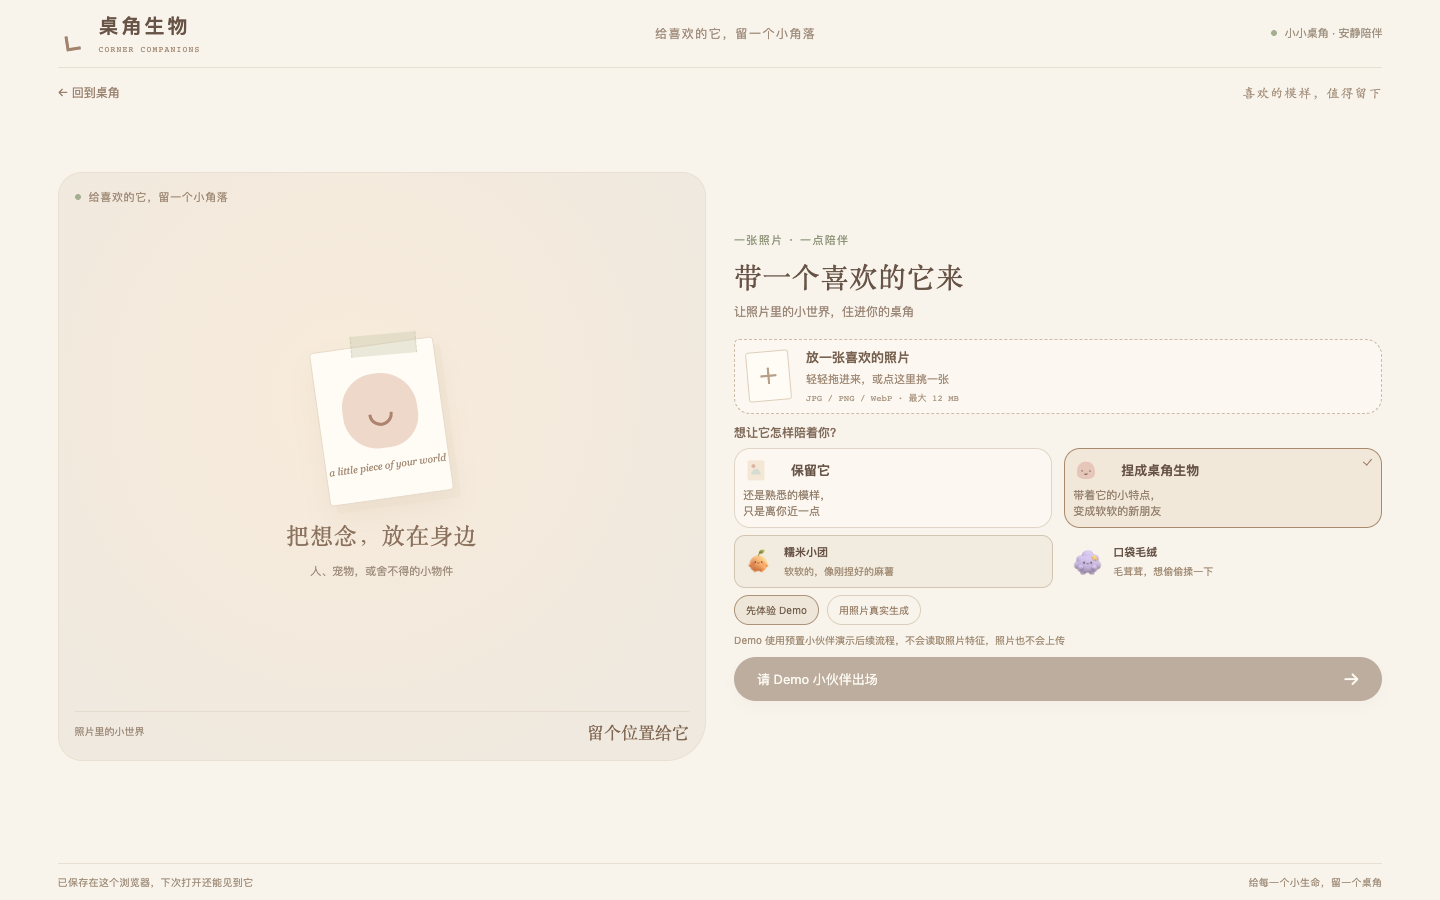
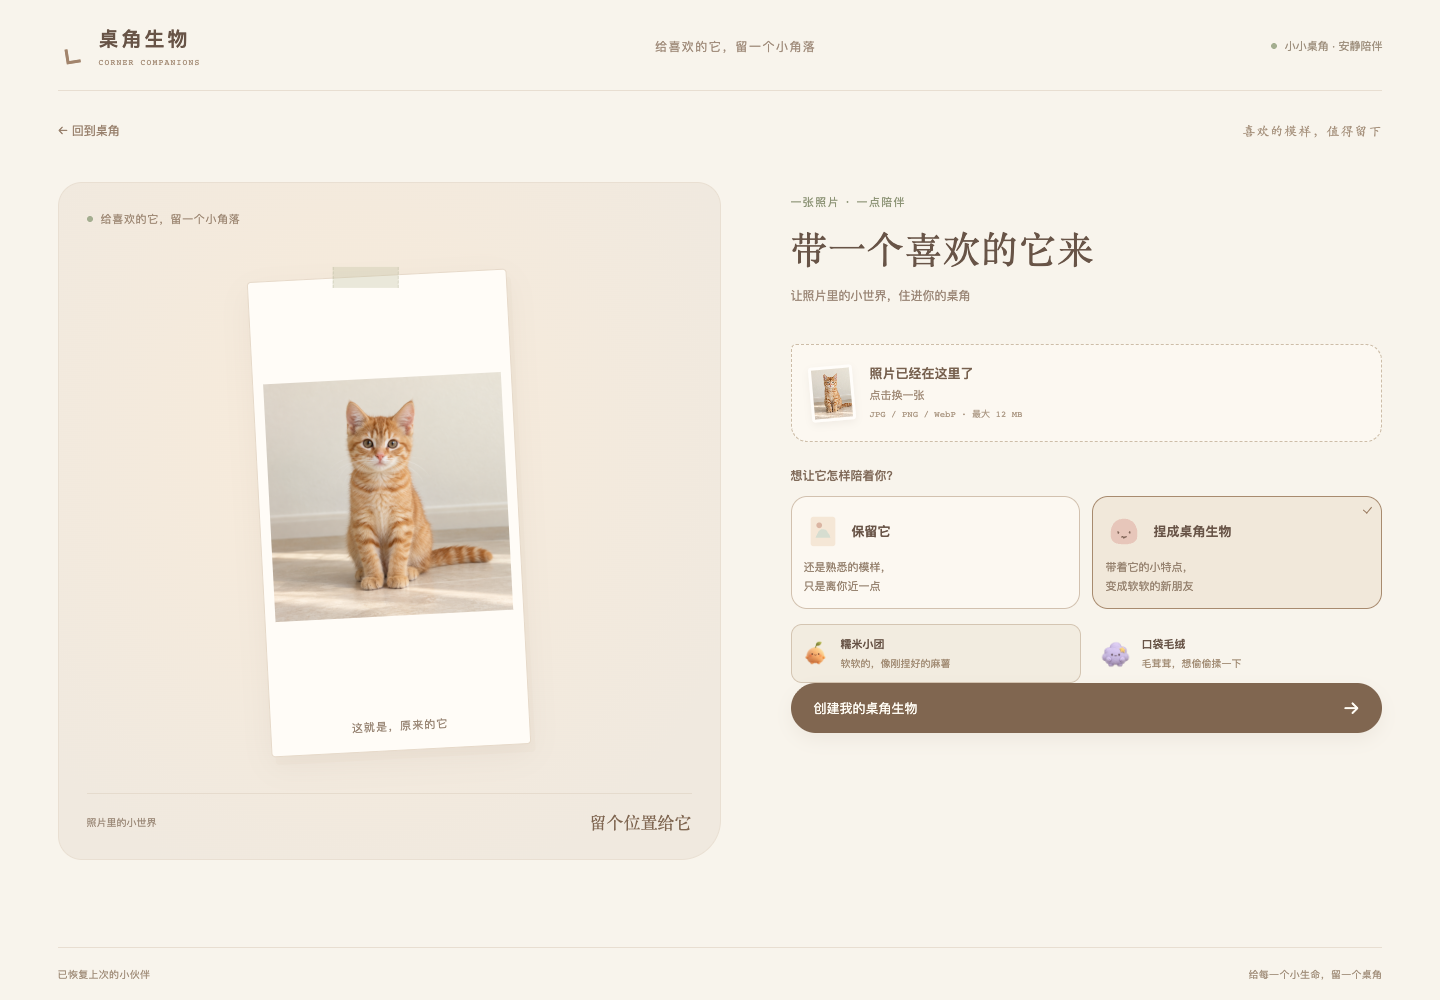
Make photo creation choose generation automatically

diff --git a/creator/PhotoCreator.tsx b/creator/PhotoCreator.tsx
@@ -30,9 +30,10 @@ export function PhotoCreator({ onBusyChange, onReady }: { onBusyChange: (busy: b
   const [source, setSource] = useState('');
   const [mode, setMode] = useState<'original' | 'generated'>('generated');
   const [style, setStyle] = useState<GenerationStyle>('mochi');
-  const [provider, setProvider] = useState<GenerationProvider>('demo');
   const [apiConfigured, setApiConfigured] = useState(false);
   const [apiChecked, setApiChecked] = useState(false);
+  const [generationNotice, setGenerationNotice] = useState('');
+  const [failedReal, setFailedReal] = useState(false);
   const [subject, setSubject] = useState<'portrait' | 'object'>('portrait');
   const [busy, setBusy] = useState(false);
   const [progress, setProgress] = useState('');
@@ -41,7 +42,6 @@ export function PhotoCreator({ onBusyChange, onReady }: { onBusyChange: (busy: b
   const [cutout, setCutout] = useState<Blob | null>(null);
   const input = useRef<HTMLInputElement>(null);
   const request = useRef<AbortController | null>(null);
-  const providerChosen = useRef(false);
   useEffect(() => () => request.current?.abort(), []);
   useEffect(() => () => { if (source) URL.revokeObjectURL(source); }, [source]);
   useEffect(() => { onBusyChange(busy || !!cutout); }, [busy, cutout, onBusyChange]);
@@ -53,18 +53,17 @@ export function PhotoCreator({ onBusyChange, onReady }: { onBusyChange: (busy: b
         if (controller.signal.aborted) return;
         const configured = status?.configured === true;
         setApiConfigured(configured);
-        if (configured && !providerChosen.current) setProvider('doubao');
       })
       .catch(() => {})
       .finally(() => { if (!controller.signal.aborted) setApiChecked(true); });
     return () => controller.abort();
   }, []);
-  function reset() { setResult(null); setError(''); }
+  function reset() { setResult(null); setError(''); setGenerationNotice(''); setFailedReal(false); }
   function begin() {
     request.current?.abort();
     const controller = new AbortController();
     request.current = controller;
-    setBusy(true); setError('');
+    setBusy(true); setError(''); setFailedReal(false);
     return controller.signal;
   }
   async function upload(file?: File) {
@@ -87,8 +86,9 @@ export function PhotoCreator({ onBusyChange, onReady }: { onBusyChange: (busy: b
     }));
     if (!result || generated) play('showcase');
   }
-  async function create(selectedProvider = provider) {
+  async function create(selectedProvider: GenerationProvider = apiConfigured ? 'doubao' : 'demo') {
     if (!photo || busy) return;
+    if (mode === 'generated') setGenerationNotice(selectedProvider === 'demo' ? apiConfigured ? '真实生成暂时不可用，已切换到预置示例；它不会根据你的照片生成。' : '没有配置图片生成 Key，这次会使用预置示例；它不会根据你的照片生成，照片也不会上传。' : '');
     const signal = begin();
     try {
       setProgress(mode === 'original' ? '正在认出照片里的它…' : selectedProvider !== 'doubao' ? '正在请小伙伴慢慢走过来…' : '正在让它慢慢长成桌角生物…');
@@ -99,7 +99,7 @@ export function PhotoCreator({ onBusyChange, onReady }: { onBusyChange: (busy: b
         const generated = await (selectedProvider === 'demo' ? demoImageGenerator : imageGenerator).generate({ image: photo, style, subject, signal, onProgress: message => { if (!signal.aborted) setProgress(message); } });
         await finish(generated.image, signal, generated);
       }
-    } catch (reason) { if (!signal.aborted) setError(reason instanceof Error ? reason.message : '这次没能完成，可以再试一次'); }
+    } catch (reason) { if (!signal.aborted) { setError(reason instanceof Error ? reason.message : '这次没能完成，可以再试一次'); setFailedReal(selectedProvider === 'doubao'); } }
     finally { if (!signal.aborted) setBusy(false); }
   }
   async function applyErase(blob: Blob) {
@@ -144,15 +144,14 @@ export function PhotoCreator({ onBusyChange, onReady }: { onBusyChange: (busy: b
         </div>
         {mode === 'original' ? <div className="subject-picker"><span>照片里是</span><button disabled={busy} aria-pressed={subject === 'portrait'} onClick={() => { setSubject('portrait'); reset(); }}>人物</button><button disabled={busy} aria-pressed={subject === 'object'} onClick={() => { setSubject('object'); reset(); }}>宠物 · 小物</button></div>
           : <div className="generation-options">
-            <div className="style-picker" role="group" aria-label="生成风格">{GENERATION_STYLES.map(item => <button disabled={busy} key={item.value} className={style === item.value ? 'selected' : ''} aria-pressed={style === item.value} onClick={() => { setStyle(item.value); reset(); }}><img src={item.preview} alt={`${item.label}预置示例`} /><span><b>{item.label}</b><small>{item.note}</small></span></button>)}</div>
-            <div className="generation-provider" role="group" aria-label="生成方式"><button disabled={busy} aria-pressed={provider === 'demo'} onClick={() => { providerChosen.current = true; setProvider('demo'); reset(); }}>先体验 Demo</button><button disabled={busy || !apiConfigured} aria-pressed={provider === 'doubao'} onClick={() => { providerChosen.current = true; setProvider('doubao'); reset(); }}>用照片真实生成</button></div>
-            {provider === 'doubao' && <div className="subject-picker"><span>照片里是</span><button disabled={busy} aria-pressed={subject === 'portrait'} onClick={() => { setSubject('portrait'); reset(); }}>人物</button><button disabled={busy} aria-pressed={subject === 'object'} onClick={() => { setSubject('object'); reset(); }}>宠物 · 小物</button></div>}
-            <p className="generation-note">{!apiChecked ? '正在检查图片生成服务；预置 Demo 仍可体验' : provider === 'demo' ? apiConfigured ? '当前选择预置 Demo，不会读取照片特征；你也可以切换到照片真实生成' : '未配置图片生成 API，当前使用预置 Demo；结果不会根据照片生成，照片也不会上传' : '已检测到服务端配置；点击后先在浏览器抠出主体，再发送到豆包图片服务。真实效果仍待验证，失败时可改用 Demo'}</p>
+            <div className="style-picker" role="group" aria-label="生成风格">{GENERATION_STYLES.map(item => <button disabled={busy} key={item.value} className={style === item.value ? 'selected' : ''} aria-pressed={style === item.value} onClick={() => { setStyle(item.value); reset(); }}><img src={item.preview} alt={`${item.label}风格参考`} /><span><b>{item.label}</b><small>{item.note}</small></span></button>)}</div>
+            {apiConfigured && <div className="subject-picker"><span>照片里是</span><button disabled={busy} aria-pressed={subject === 'portrait'} onClick={() => { setSubject('portrait'); reset(); }}>人物</button><button disabled={busy} aria-pressed={subject === 'object'} onClick={() => { setSubject('object'); reset(); }}>宠物 · 小物</button></div>}
+            {generationNotice && <p className="generation-note" role="status">{generationNotice}</p>}
           </div>}
-        {error && <div className="photo-error" role="alert">{error}{mode === 'generated' && provider === 'doubao' && !busy && <button onClick={() => { setProvider('demo'); void create('demo'); }}>先用 Demo 小伙伴继续 →</button>}</div>}
+        {error && <div className="photo-error" role="alert">{error}{mode === 'generated' && failedReal && !busy && <button onClick={() => void create('demo')}>使用预置示例继续 →</button>}</div>}
         {result && <p className="generation-result-note" role="status">{result.generationProvider === 'demo' ? 'Demo 结果 · 这是预置小伙伴，并非根据你的照片生成，可以修整、命名，再带到桌面' : ['doubao', 'openai'].includes(result.generationProvider ?? '') ? '已根据照片生成，可以擦掉多余的部分，再给它起个名字' : '透明底已经准备好了，可以继续修整，再给它起个名字'}</p>}
         {result ? <><button className="bring-button" disabled={busy} onClick={() => onReady(result)}>给它起个名字 <span>→</span></button><div className="photo-secondary"><button disabled={busy} onClick={() => void edit()}>擦掉多余的部分</button><button disabled={busy} onClick={reset}>重新制作</button></div></>
-          : <button className="bring-button" disabled={!photo || busy} onClick={() => void create()}>{busy ? '再等它一小会…' : mode === 'original' ? '把它留下来' : '创建我的桌角生物'} <span>→</span></button>}
+          : <button className="bring-button" disabled={!photo || busy || (mode === 'generated' && !apiChecked)} onClick={() => void create()}>{busy ? '再等它一小会…' : mode === 'original' ? '把它留下来' : '创建我的桌角生物'} <span>→</span></button>}
       </section>
     </section>
     {cutout && <ManualEraser image={cutout} busy={busy} onCancel={() => { request.current?.abort(); setBusy(false); setCutout(null); }} onApply={blob => void applyErase(blob)} />}

diff --git a/tests/photo-demo.browser.js b/tests/photo-demo.browser.js
@@ -16,10 +16,11 @@ async page => {
       await page.getByLabel('上传照片', { exact: true }).setInputFiles('tests/samples/pet-cat.png');
       await page.getByAltText('你上传的原始照片', { exact: true }).waitFor();
       await page.waitForFunction(() => [...document.querySelectorAll('.style-picker img')].every(image => image.complete && image.naturalWidth > 0));
-      assert(await page.getByRole('button', { name: '先体验 Demo', exact: true }).getAttribute('aria-pressed') === 'true', 'Demo is not the safe default');
-      await page.getByRole('button', { name: new RegExp(style === 'mochi' ? '糯米小团预置示例' : '口袋毛绒预置示例') }).click();
+      assert(await page.getByRole('group', { name: '生成方式' }).count() === 0 && await page.locator('.generation-note').count() === 0, 'Demo controls appear before creation');
+      await page.getByRole('button', { name: new RegExp(style === 'mochi' ? '糯米小团风格参考' : '口袋毛绒风格参考') }).click();
       await page.getByRole('button', { name: /创建我的桌角生物/ }).click();
       await page.getByRole('button', { name: /给它起个名字/ }).waitFor();
+      assert(await page.locator('.generation-note').innerText().then(text => text.includes('没有配置图片生成 Key')), 'missing no-key disclosure after creation');
       assert(apiCalls === 0, 'Demo called the generation API');
       assert(await page.locator('.generation-result-note').innerText().then(text => text.includes('并非根据你的照片生成')), 'Demo provenance missing');
       assert(await page.locator('.image-pet').count() === 1, 'Demo image has no preview');
@@ -56,7 +57,7 @@ async page => {
         const originalAsset = await page.locator('.image-pet-face > image').getAttribute('href');
         for (const phase of ['encode', 'prepare']) {
           await page.getByRole('button', { name: '擦掉多余的部分', exact: true }).click();
-          await page.waitForFunction(() => !document.querySelector('.eraser-apply')?.disabled);
+          await page.waitForFunction(() => document.querySelector('.eraser-canvas canvas')?.width > 0 && !document.querySelector('.eraser-apply')?.disabled);
           await page.evaluate(phase => {
             const canvas = document.querySelector('.eraser-canvas canvas');
             canvas.getContext('2d').clearRect(0, 0, canvas.width, canvas.height);
@@ -109,11 +110,11 @@ async page => {
     await page.getByRole('button', { name: '把生活里的它带回来', exact: true }).click();
     await page.getByLabel('上传照片', { exact: true }).setInputFiles('tests/samples/pet-cat.png');
     await page.getByAltText('你上传的原始照片', { exact: true }).waitFor();
-    await page.getByRole('button', { name: '用照片真实生成', exact: true }).click();
+    assert(await page.getByRole('group', { name: '生成方式' }).count() === 0, 'manual provider choice remained');
     await page.getByRole('button', { name: /创建我的桌角生物/ }).click();
     await page.getByRole('alert').waitFor();
     assert(apiCalls === 1, 'real mode did not attempt the adapter');
-    await page.getByRole('button', { name: '先用 Demo 小伙伴继续 →', exact: true }).click();
+    await page.getByRole('button', { name: '使用预置示例继续 →', exact: true }).click();
     await page.getByRole('button', { name: /给它起个名字/ }).waitFor();
     await page.locator('.image-pet[data-motion="showcase"]').waitFor();
     assert(await page.locator('.pet-speech').count() === 0, 'fallback showcase displayed speech');

diff --git a/creator/photo-creator.css b/creator/photo-creator.css
@@ -111,9 +111,6 @@
 @keyframes off-to-the-corner { 0% { transform: translate(0, 0) scale(1); } 40% { transform: translate(0, -14px) scale(1.02); } 100% { transform: translate(20px, -8px) scale(.88); opacity: .72; } }
 @media (prefers-reduced-motion: reduce) { .travel-stage.is-departing > .pet-3d, .travel-stage.is-departing > .image-pet { animation: none; } }
 
-.generation-provider { display: flex; flex-wrap: wrap; gap: 8px; margin-top: 16px; }
-.generation-provider button { padding: 7px 11px; border: 1px solid #DBCEBC; border-radius: 99px; color: #957A62; background: transparent; font-size: 10px; }
-.generation-provider button[aria-pressed=true] { color: #6F5947; border-color: #AC9278; background: #EEE6D8; }
 .generation-result-note { border-left: 2px solid #B9B99C; padding: 9px 12px; color: #8B7865; font-size: 11px; line-height: 1.8; background: #EFEBDE80; }
 .photo-error button { display: block; border: 0; background: transparent; color: #805A42; padding: 9px 0 0; text-decoration: underline; text-underline-offset: 3px; font-size: 12px; }
 .photo-preview > .pet-reaction-controls { margin-top: 16px; }
@@ -136,7 +133,6 @@
   .photo-mode-options svg { width: 26px; height: 26px; }
   .style-picker { margin-top: 7px; }
   .style-picker button { padding-block: 4px; }
-  .generation-provider { margin-top: 7px; }
   .generation-note { margin-block: 7px; }
   .generation-result-note { margin-block: 7px; padding-block: 5px; }
   .photo-editor:has(.generation-result-note) .generation-note { display: none; }
@@ -185,7 +181,6 @@
   .style-picker button { padding-block: 3px; }
   .style-picker small { display: none; }
   .style-picker img { height: 32px; width: 30px; }
-  .generation-provider { margin-top: 6px; }
   .generation-note { margin-block: 6px; }
   .generation-result-note { margin-block: 6px; padding-block: 4px; font-size: 10px; }
   .photo-editor:has(.generation-result-note) .generation-note { display: none; }

diff --git a/tests/unified-creator.browser.js b/tests/unified-creator.browser.js
@@ -55,7 +55,7 @@ async page => {
         assert(await page.evaluate(() => document.documentElement.scrollWidth <= innerWidth), 'eraser mobile overflow');
         await page.getByRole('button', { name: '修好了', exact: true }).click();
       } else {
-        await page.getByRole('button', { name: '用照片真实生成', exact: true }).click();
+        assert(await page.getByRole('group', { name: '生成方式' }).count() === 0, 'manual provider choice remained');
         await page.getByRole('button', { name: '宠物 · 小物', exact: true }).click();
         await page.getByRole('button', { name: /创建我的桌角生物/ }).click();
       }
@@ -105,6 +105,7 @@ async page => {
       await page.getByText('第一次见面 / 留一份小窝', { exact: true }).click();
       for (const [width, height] of [[320, 568], [1440, 900]]) {
         await page.setViewportSize({ width, height });
+        await page.waitForFunction(() => document.documentElement.scrollWidth <= innerWidth);
         assert(await page.evaluate(() => document.documentElement.scrollWidth <= innerWidth), `finish overflow at ${width}`);
         await page.getByRole('button', { name: '下载小窝文件', exact: true }).scrollIntoViewIfNeeded();
         await page.locator('.studio-footer').scrollIntoViewIfNeeded();

diff --git a/README.md b/README.md
@@ -121,7 +121,7 @@ DIY 工作台提供六种 3D 基础造型，下面是创建页中的实际选择
 
 **不填 API Key 本地运行：** 按下方命令启动 Web，选 **DIY**，或选 **照片 → 保留它** 做本地抠图。选 **照片 → 捏成桌角生物** 时，页面默认使用预置 Demo，并明确提示结果并非根据照片生成。
 
-**使用自己的 API Key：** 在仓库根目录把 `.env.example` 复制为 `.env`，填写自己的 `ARK_API_KEY`，重启 `npm run dev` 并刷新网页。进入 **照片 → 捏成桌角生物** 后，“用照片真实生成”会自动选中；上传照片，再点“捏出这位小朋友”。这里只检测到服务端是否配置了 Key，不能保证 Key 有效或生成质量；调用可能产生费用，失败时可以手动改用 Demo。Key 不填在网页里，也不会发送给浏览器。
+**使用自己的 API Key：** 在仓库根目录把 `.env.example` 复制为 `.env`，填写自己的 `ARK_API_KEY`，重启 `npm run dev` 并刷新网页。进入 **照片 → 捏成桌角生物**，上传照片，点“创建我的桌角生物”：有 Key 会自动尝试真实生成；没有 Key 会在点击后提示当前使用预置示例。页面不要求选择 Demo 或真实模式。这里只检测到服务端是否配置了 Key，不能保证 Key 有效或生成质量；调用可能产生费用，真实生成失败时可以主动改用预置示例。Key 不填在网页里，也不会发送给浏览器。
 
 要体验桌面交接，需要在同一台 Mac 启动 Electron 开发版，浏览器按提示允许打开应用与访问本机连接。
 
